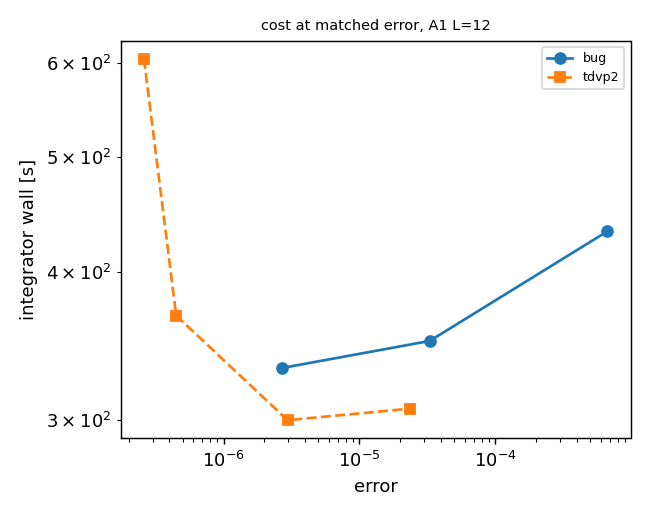
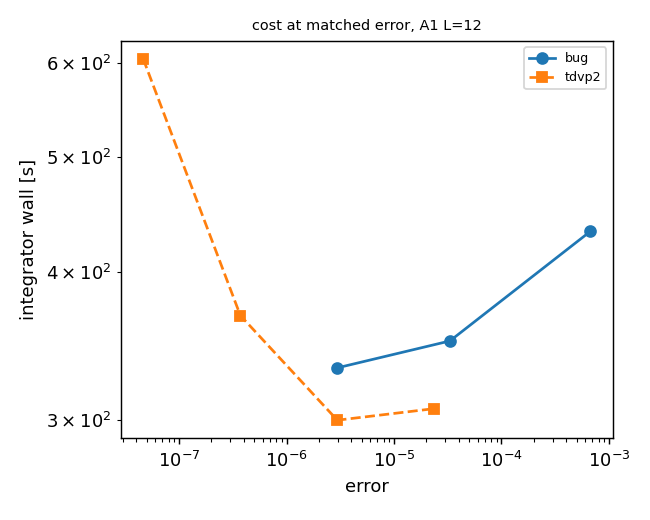
Task 6: dr6d converged A1 references, fix regression tests complete (dt6u)

diff --git a/docs/dissipative_plan_audit.md b/docs/dissipative_plan_audit.md
@@ -696,3 +696,16 @@ point at production size over a short window:
 
 Each check compares an uninterrupted run with one stopped at a checkpoint and resumed, plus the
 changed-tol_trunc refusal control. The memory budget is read from each run's printed peak RSS.
+
+**Fix regression tests complete.** dt6t 17496046 passed `test_dd_cbe` (with the new T2.4 test),
+`test_dd_cbe_controller` and `test_dissipative_t2`, `t4` and `t5`. dt6u 17496932 passed
+`test_dissipative_t3_a1`, `t3_a2` and `t2_g12` (U10 order). Every relevant test file passes on
+`a2d8c78` / `4a76d77`.
+
+**A1 references converged (dr6d 17496931).** Successive halvings differ by 2.2e-7 (dt 0.025 to
+0.0125) and then 1.4e-8 (0.0125 to 0.00625), a ratio of 15 (one-step order 4). The dt 0.00625
+reference is therefore good to about 1e-9; none of them was capped (peak D 1407). Against it,
+TDVP2 gives 4.6e-8, 3.7e-7, 3.0e-6 and 2.4e-5 at dt 0.0125-0.1 (slopes 3.0, 3.0, 2.98), and BUG
+gives 2.9e-6, 3.3e-5 and 6.7e-4 at dt 0.05-0.2. The final timing curve, dr6e 17497216, reruns
+every arm in one job and adds BUG dt 0.025 and 0.0125, so that BUG also reaches TDVP2's two most
+accurate arms.
